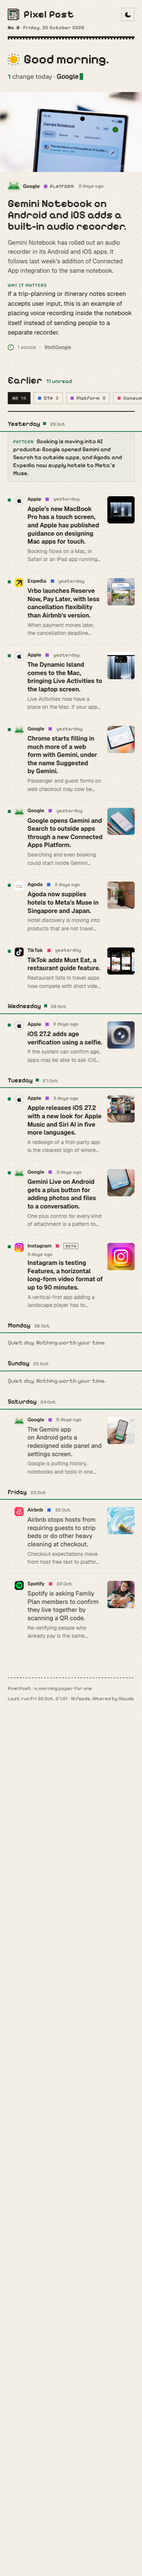
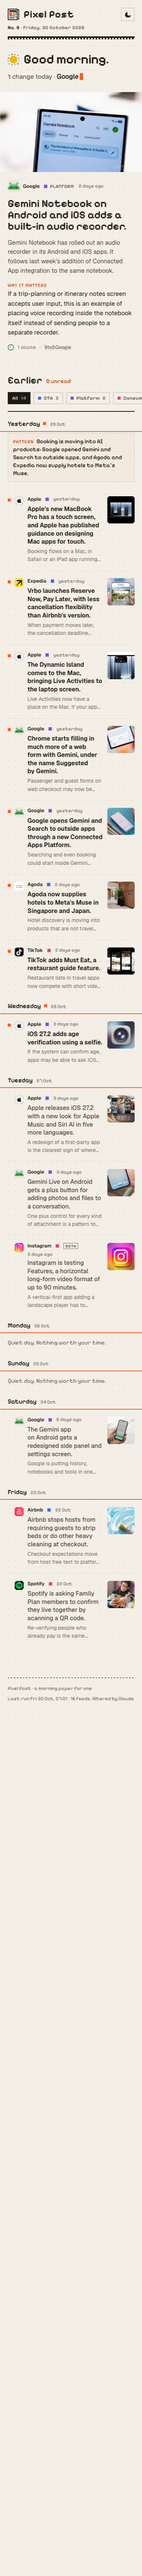
Accent back to orange: a brighter signal orange

Changed region(s): [[0.2053, 0.4053, 0.6747, 0.4988]]

diff --git a/site/styles.css b/site/styles.css
@@ -1,5 +1,5 @@
 /* Pixel Post: a morning paper for one, set in pixels.
-   Pixelify Sans for display, Geist for reading. Muted paper, one deep green accent, one dot colour per category. */
+   Pixelify Sans for display, Geist for reading. Muted paper, one signal-orange accent, one dot colour per category. */
 
 :root {
   --paper: #f3efe6;
@@ -9,12 +9,12 @@
   --ink-2: #4a443b;
   --ink-3: #6e675c;
   --line: #d9d1c1;
-  --accent: #1d7a4a;
-  --accent-ink: #17633c;
+  --accent: #ff5a1f;
+  --accent-ink: #c63d0b;
   --sun: #f2b705;
-  --ota: #3567d6;
-  --rail: #c98a00;
-  --platform: #9a4fd6;
+  --ota: #2f6fe0;
+  --rail: #1d9a5b;
+  --platform: #7b4fd6;
   --consumer: #e0446e;
   --shadow: #1d1a16;
 
@@ -37,12 +37,12 @@
   --ink-2: #c9c1b1;
   --ink-3: #9c9384;
   --line: #3a352b;
-  --accent: #5fd08f;
-  --accent-ink: #7fdca5;
+  --accent: #ff7a45;
+  --accent-ink: #ff9063;
   --sun: #ffcc33;
-  --ota: #7ea3ff;
-  --rail: #f0b429;
-  --platform: #c08bff;
+  --ota: #6b9cff;
+  --rail: #3fcf8a;
+  --platform: #a98bff;
   --consumer: #ff7a9c;
   --shadow: #000;
   color-scheme: dark;
@@ -739,7 +739,7 @@ button {
   width: 2px;
   background: repeating-linear-gradient(var(--line) 0 var(--px), transparent var(--px) calc(var(--px) * 2));
 }
-/* The fill: solid green over the dotted line, down to how far you have read, like a loading bar.
+/* The fill: solid accent colour over the dotted line, down to how far you have read, like a loading bar.
    --fill is set by scroll (site/app.js wireRail), in whole 4px steps so it moves like pixels. */
 .rail-fill {
   position: absolute;
@@ -778,7 +778,7 @@ button {
 .day.has-unread .rail-inner::after {
   background: var(--ink);
 }
-/* A date turns green once the fill reaches it. */
+/* A date turns orange once the fill reaches it. */
 .day.reached .rail-inner::after {
   background: var(--accent);
   box-shadow: inset 0 0 0 2px var(--accent);

diff --git a/site/app.js b/site/app.js
@@ -594,9 +594,9 @@ function wireLogo() {
 }
 
 /**
- * The timeline fills with green as you scroll, like a loading bar. The "reading line" sits 45% down the screen
+ * The timeline fills with the accent colour as you scroll, like a loading bar. The "reading line" sits 45% down the screen
  * and slides to the bottom as you reach the end of the page, so the last day fills completely.
- * Each date turns green when the fill passes its square. On a phone the sticky date header fills left to right.
+ * Each date turns the accent colour when the fill passes its square. On a phone the sticky date header fills left to right.
  */
 function wireRail() {
   let queued = false;

diff --git a/README.md b/README.md
@@ -157,4 +157,4 @@ data/icons.json       cached app icons
 
 ## The page
 
-Light by default, with a dark mode toggle (top right). Pixelify Sans for headlines, Geist for reading. One deep green accent; each category has its own square dot (OTA blue, rail mustard, platform violet, consumer pink). The timeline fills with green as you scroll. The logo is a pixel newspaper whose lines print in. Cards, dates and archive rows print in as they scroll into view, and images arrive blocky and sharpen in a few steps; items without an image show their app icon as a pixel mosaic. Unread dots mark items collected since your previous visit (kept in your browser's localStorage) and clear when you open an item. Motion is switched off when your system asks for reduced motion.
+Light by default, with a dark mode toggle (top right). Pixelify Sans for headlines, Geist for reading. One signal-orange accent; each category has its own square dot (OTA blue, rail green, platform violet, consumer pink). The timeline fills with orange as you scroll. The logo is a pixel newspaper whose lines print in. Cards, dates and archive rows print in as they scroll into view, and images arrive blocky and sharpen in a few steps; items without an image show their app icon as a pixel mosaic. Unread dots mark items collected since your previous visit (kept in your browser's localStorage) and clear when you open an item. Motion is switched off when your system asks for reduced motion.
